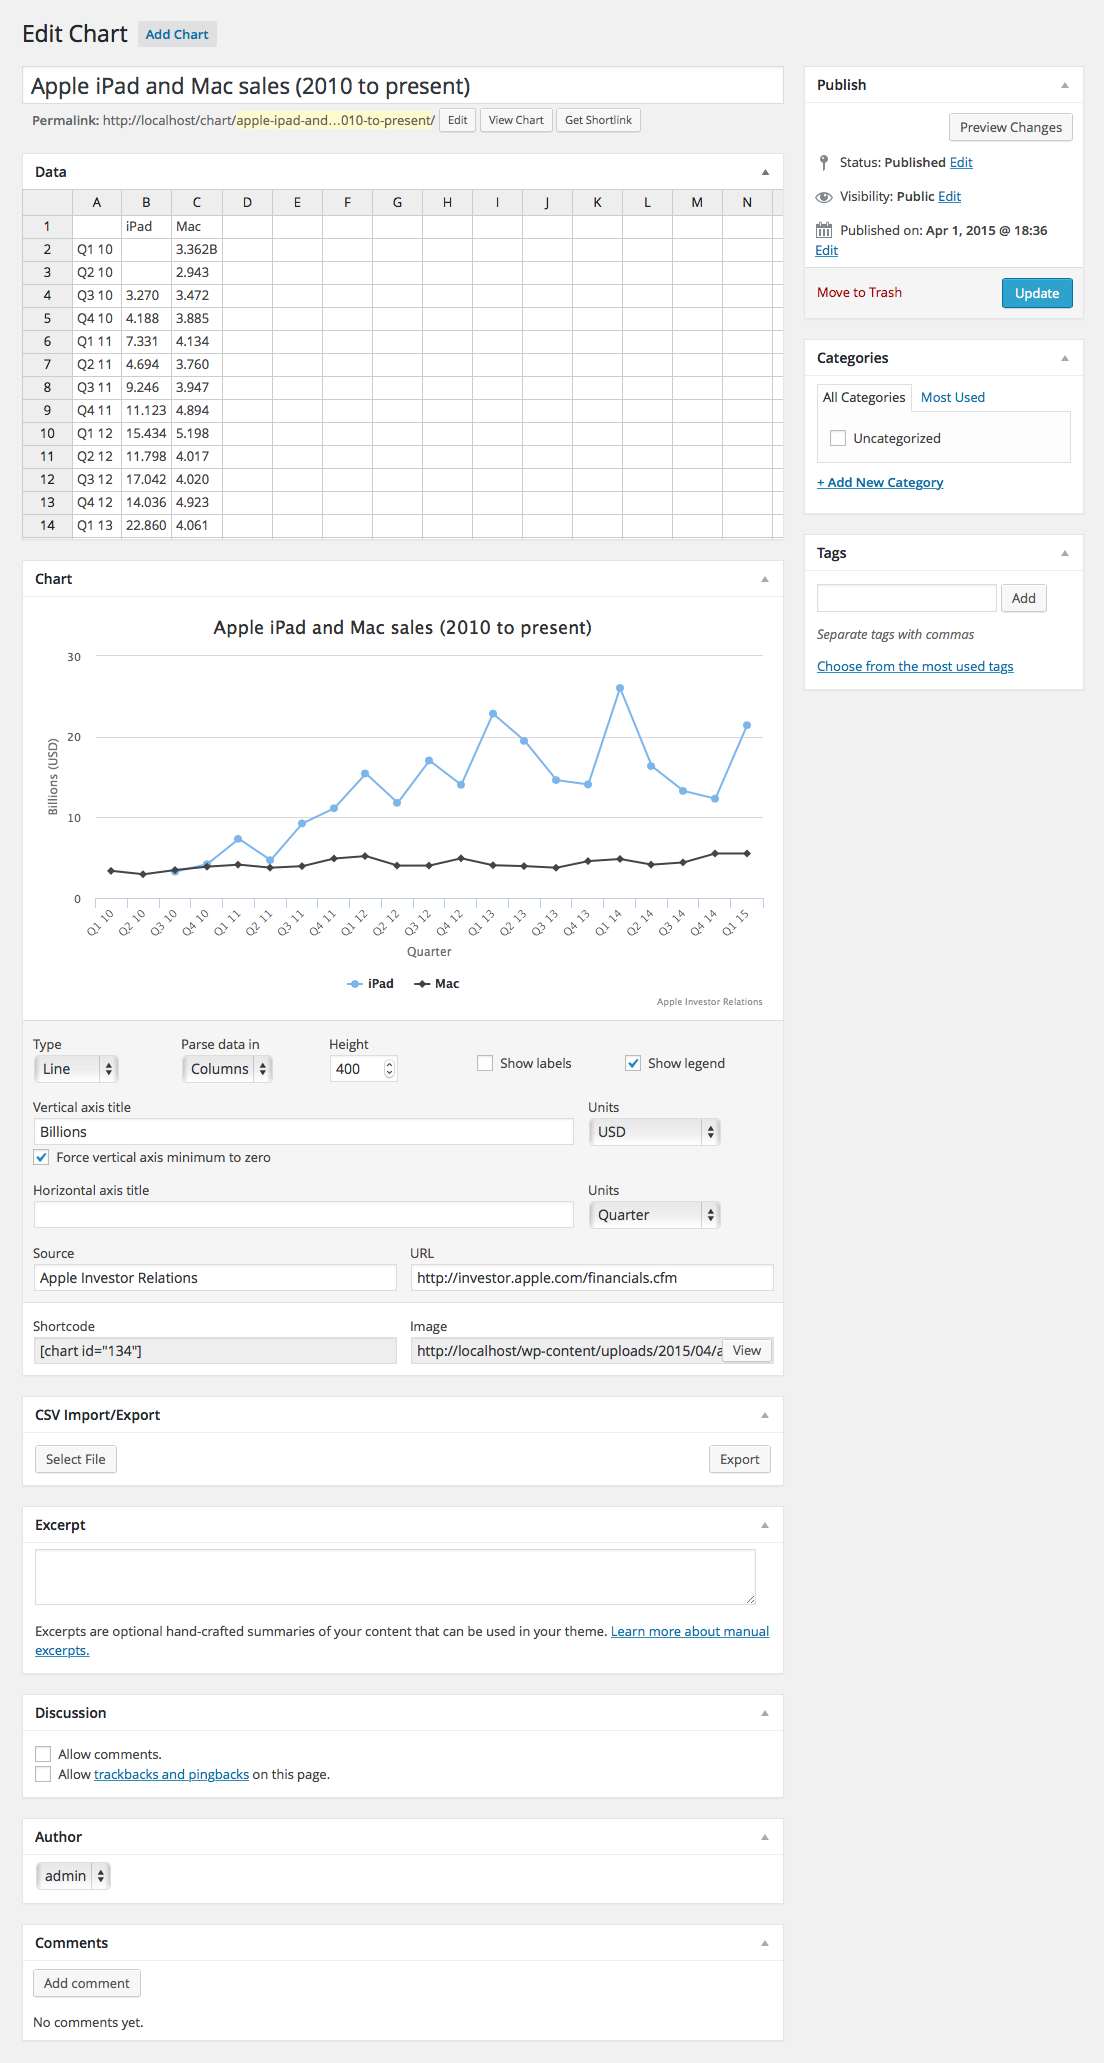
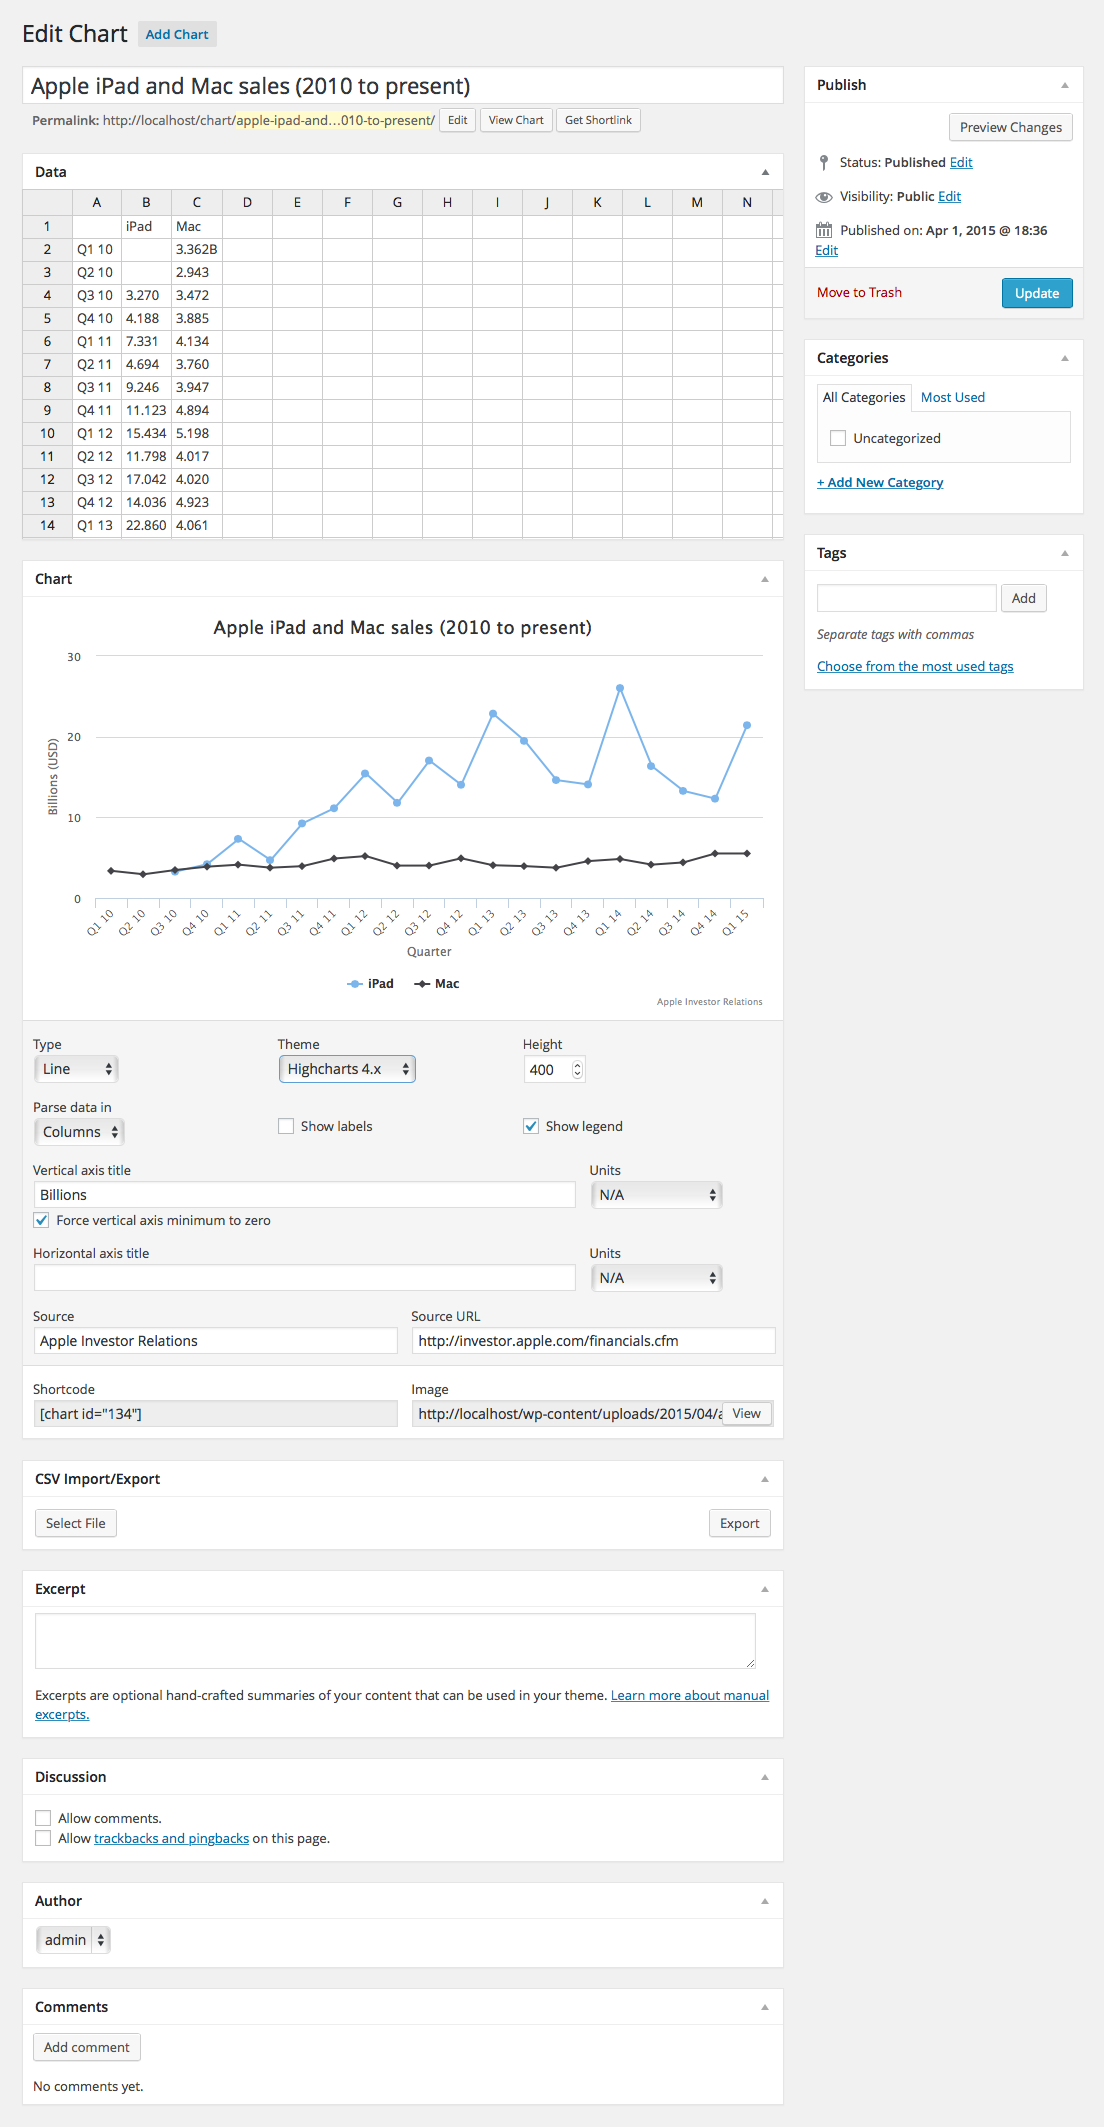
Updated screenshot. Updated read me.

diff --git a/README.md b/README.md
@@ -37,6 +37,12 @@ To contribute, report issues, or make feature requests use [Github](https://gith
 * Added a settings panel
 	* Turn off/on image generation and/or instant chart previews
 	* Set default Highcharts theme
+* Added [themes](https://github.com/methnen/m-chart/wiki/Themes)!
+	* Default themes:
+		* Highcharts 4.x (Default)
+		* Color Blind Safe ([Looking for suggestions on improvements](https://github.com/methnen/m-chart/issues))
+		* Highcharts 3.x
+		* Highcharts 2.x
 * Updated Handsontable to the latest stable version (0.24.3)
 * Updated Highcharts to the latest stable version (4.2.1)
 
